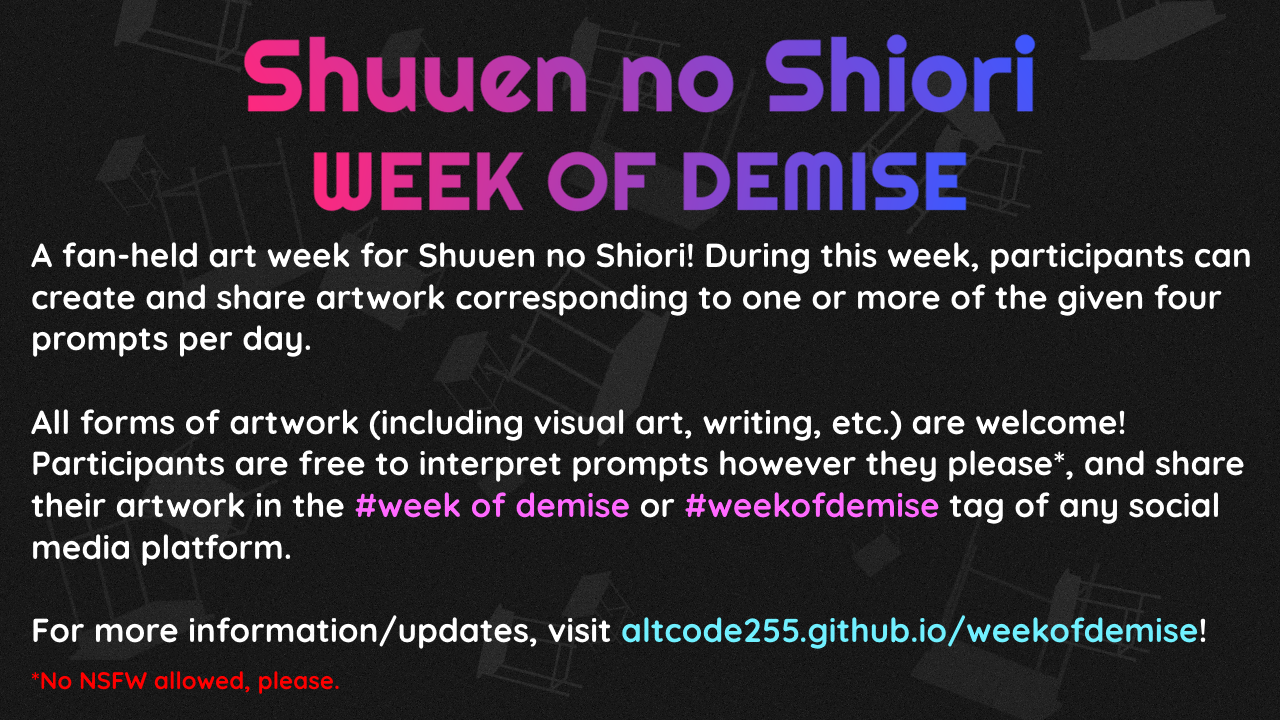
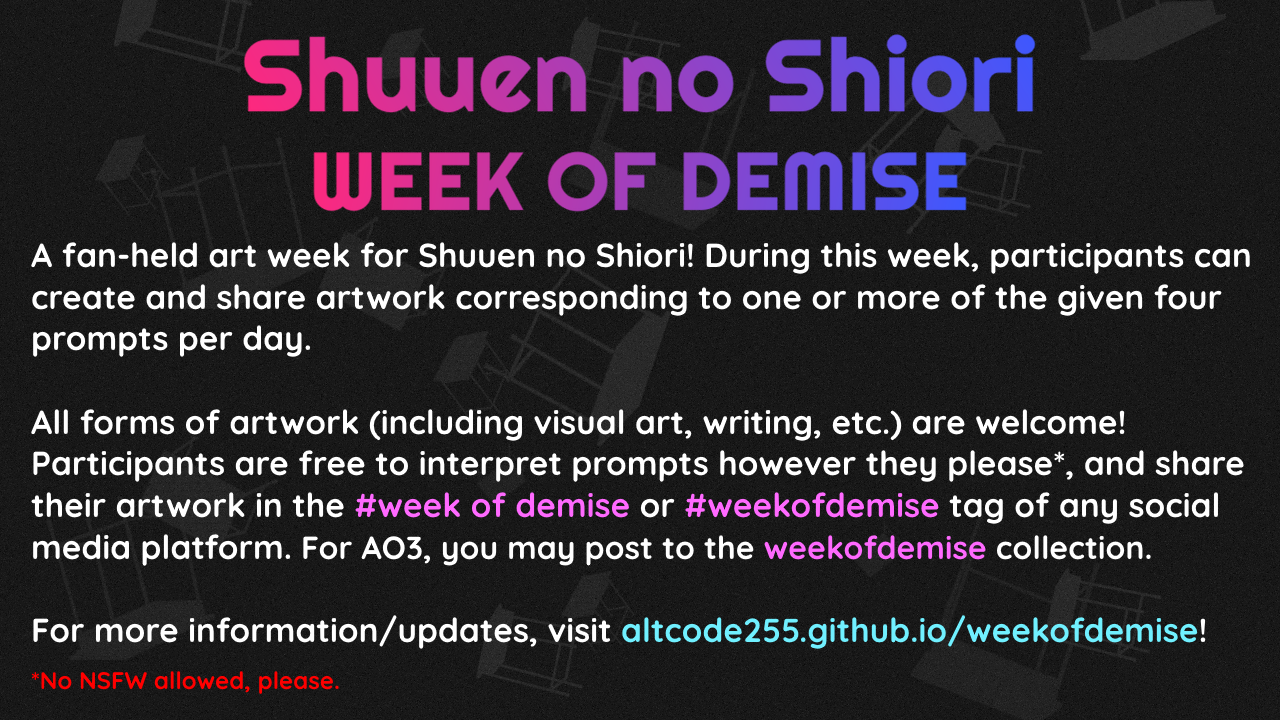
add ao3 collection

Changed region(s): [[0.2188, 0.7333, 0.9062, 0.7944]]

diff --git a/weekofdemise.html b/weekofdemise.html
@@ -43,7 +43,7 @@
                 <h2>Information</h2>
                 <p>This is a fan-held art week for Shuuen no Shiori! During this week, participants can create and share artwork corresponding to one or more of the four given prompts per day.</p>
                 <p>Anyone is free to join, and all forms of artwork* (including visual art, writing, etc.) are welcome! There are no strict requirements for participation.</p>
-                <p>Participants are free to interpret prompts however they please <small>(no NSFW)</small>, and share their artwork in the <span class="text-secondary">#week of demise</span> or <span class="text-secondary">#weekofdemise</span> tag of any social platform.</p>
+                <p>Participants are free to interpret prompts however they please <small>(no NSFW)</small>, and share their artwork in the <span class="text-secondary">#week of demise</span> or <span class="text-secondary">#weekofdemise</span> tag of any social platform. For written works posted to Archive of Our Own, you may post to the <span class="text-secondary">weekofdemise</span> <a href="https://archiveofourown.org/collections/weekofdemise">collection</a>.</p>
                 <small>*Shouldn't have to be said, but please do not share AI-generated or LLM-generated creations for Week of Demise.</small>
                 <hr>
                 <details>
@@ -53,7 +53,8 @@
             </div>
             <div id="status">
                 <h2>Current Status (2025): <span class="text-light">Prompt List Released!</span></h2>
-                <p>As of May 16th, the survey has closed. Out of 24 votes, 16 voted for Week of Demise 2025 to be held between <b>July 20th - July 26th</b>. I got a little impatient, and already had the prompt list prepared, so... the prompt list has been released early! Have fun planning!</p>
+                <p><u>(2025/05/19)</u> A <a href="https://archiveofourown.org/collections/weekofdemise">new collection</a> has been created on AO3 for Week of Demise fan works.</p>
+                <p><u>(2025/05/16)</u> The survey has closed. Out of 24 votes, 16 voted for Week of Demise 2025 to be held between <b>July 20th - July 26th</b>. I got a little impatient, and already had the prompt list prepared, so... the prompt list has been released early! Have fun planning!</p>
                 Official Posts:
                 <ul>
                     <li><a href="https://re-code1713.tumblr.com/post/783745697958739968/week-of-demise-2025-july-20th-july-26th-prompt">Tumblr</a></li>
@@ -346,6 +347,7 @@
                     <summary>I don't draw, but I write fanfiction or create fan works in another form. Can I still participate?</summary>
                     <div class="card card-body bg-dark">
                         <p>Yes, of course. All art mediums are welcome here. If your work can't be directly shared in a post tagged with <span class="text-secondary">#weekofdemise</span>, then include a link to it in your post instead (such as a URL to an AO3 fic).</p>
+                        <p>Additionally, for AO3 in particular, you may post to the <a href="https://archiveofourown.org/collections/weekofdemise">weekofdemise</a> collection.</p>
                     </div>
                 </details>
 
@@ -434,16 +436,19 @@
                 <h2>Links</h2>
                 <ul>
                     <li>
-                        Twitter: <a href="https://twitter.com/search?q=%23weekofdemise">#weekofdemise</a>
-                    </li>
-                    <li>
                         Tumblr: <a href="https://www.tumblr.com/tagged/week%20of%20demise">#week of demise</a> | <a href="https://www.tumblr.com/tagged/weekofdemise">#weekofdemise</a>
                     </li>
                     <li>
-                        Instagram: <a href="https://www.instagram.com/explore/search/keyword/?q=%23weekofdemise">#weekofdemise</a>
+                        Bluesky: <a href="https://bsky.app/hashtag/weekofdemise">#weekofdemise</a>
                     </li>
                     <li>
-                        Bluesky: <a href="https://bsky.app/hashtag/weekofdemise">#weekofdemise</a>
+                        Twitter: <a href="https://twitter.com/search?q=%23weekofdemise">#weekofdemise</a>
+                    </li>
+                    <li>
+                        Archive of Our Own (collection): <a href="https://archiveofourown.org/collections/weekofdemise">weekofdemise</a>
+                    </li>
+                    <li>
+                        Instagram: <a href="https://www.instagram.com/explore/search/keyword/?q=%23weekofdemise">#weekofdemise</a>
                     </li>
                 </ul>
             </div>
